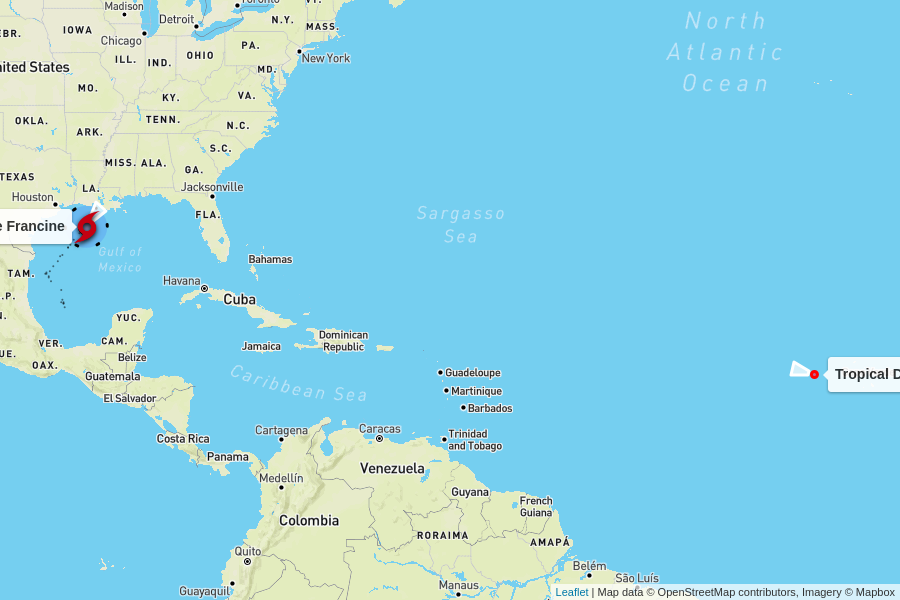
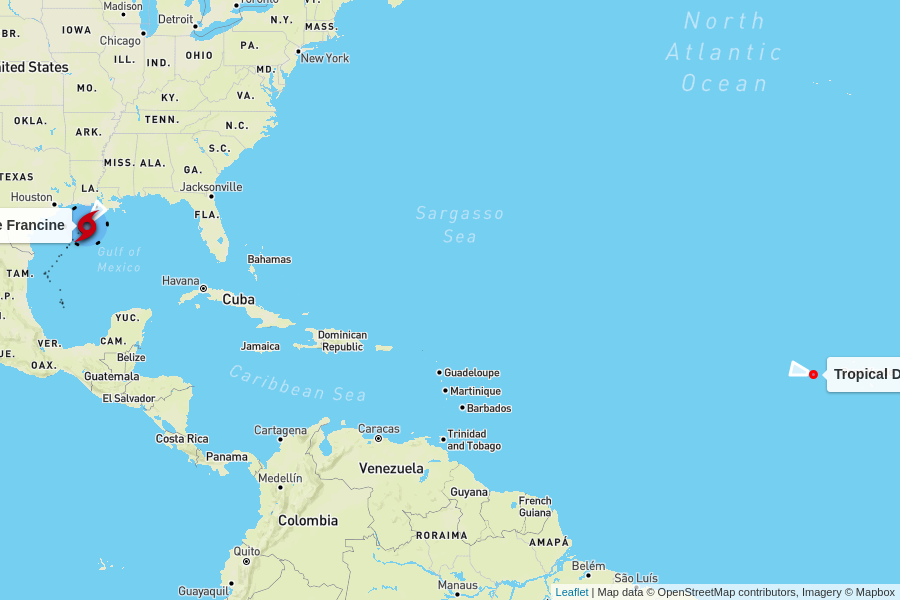
automatic update

diff --git a/docs/index.html b/docs/index.html
@@ -101,6 +101,50 @@
 
     <table>
       <tr>
+        <td colspan="6" class="storm category-1" >
+          <h2>
+            Hurricane Francine - Category 1
+            <p class="updated">last updated <span data-time>2024-09-11T16:00:00.000Z</span></p>
+          </h2>
+        </td>
+      </tr>
+      
+      <tr>
+        <th class="spacer"></th>
+        <th>wind speed</th>
+        <th>central pressure</th>
+        <th>movement</th>
+        <th>data (CSV)</th>
+        <th>National Hurricane Center</th>
+      </tr>
+      <tr>
+        <td class="spacer"></td>
+        <td>90 mph<br>0 mph since last update</td>
+        <td>976 mb<br>0 mb since last update</td>
+        <td>
+          13 mph to the northeast
+          <br/>
+          <span style="display: inline-block; font-size: 1.5em; transform: rotate(40deg);">↑</span>
+        </td>
+        <td><a href="https://raw.githubusercontent.com/mgwalker/atlantic-hurricanes/main/data/csv/AL062024.csv">AL062024.csv</a></td>
+        <td><a href="https://www.nhc.noaa.gov/archive/2024/FRANCINE.shtml?">NHC advisories</a></td>
+      </tr>
+      <tr id="storm_AL062024" >
+        <td class="spacer">
+        <td colspan="5">
+          <figure>
+            <img src="AL062024.png">
+            <figcaption>
+              Map data &copy; <a href="https://www.openstreetmap.org/copyright">OpenStreetMap</a> contributors,
+              Imagery &copy; <a href="https://www.mapbox.com/">Mapbox</a> |
+              <a href="https://www.mapbox.com/map-feedback/" target="_blank">Improve this map</a>
+            </figcaption>
+          </figure>
+        </td>
+      </tr>
+      
+
+      <tr>
         <td colspan="6" class="storm category-0" >
           <h2>
             Tropical Depression Seven
@@ -134,50 +178,6 @@
         <td colspan="5">
           <figure>
             <img src="AL072024.png">
-            <figcaption>
-              Map data &copy; <a href="https://www.openstreetmap.org/copyright">OpenStreetMap</a> contributors,
-              Imagery &copy; <a href="https://www.mapbox.com/">Mapbox</a> |
-              <a href="https://www.mapbox.com/map-feedback/" target="_blank">Improve this map</a>
-            </figcaption>
-          </figure>
-        </td>
-      </tr>
-      
-
-      <tr>
-        <td colspan="6" class="storm category-1" >
-          <h2>
-            Hurricane Francine - Category 1
-            <p class="updated">last updated <span data-time>2024-09-11T15:00:00.000Z</span></p>
-          </h2>
-        </td>
-      </tr>
-      
-      <tr>
-        <th class="spacer"></th>
-        <th>wind speed</th>
-        <th>central pressure</th>
-        <th>movement</th>
-        <th>data (CSV)</th>
-        <th>National Hurricane Center</th>
-      </tr>
-      <tr>
-        <td class="spacer"></td>
-        <td>90 mph<br>0 mph since last update</td>
-        <td>976 mb<br>0 mb since last update</td>
-        <td>
-          13 mph to the northeast
-          <br/>
-          <span style="display: inline-block; font-size: 1.5em; transform: rotate(40deg);">↑</span>
-        </td>
-        <td><a href="https://raw.githubusercontent.com/mgwalker/atlantic-hurricanes/main/data/csv/AL062024.csv">AL062024.csv</a></td>
-        <td><a href="https://www.nhc.noaa.gov/archive/2024/FRANCINE.shtml?">NHC advisories</a></td>
-      </tr>
-      <tr id="storm_AL062024" >
-        <td class="spacer">
-        <td colspan="5">
-          <figure>
-            <img src="AL062024.png">
             <figcaption>
               Map data &copy; <a href="https://www.openstreetmap.org/copyright">OpenStreetMap</a> contributors,
               Imagery &copy; <a href="https://www.mapbox.com/">Mapbox</a> |
